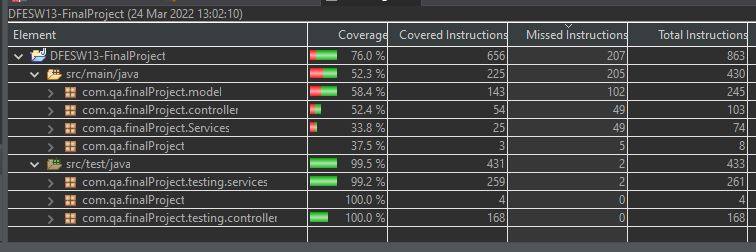
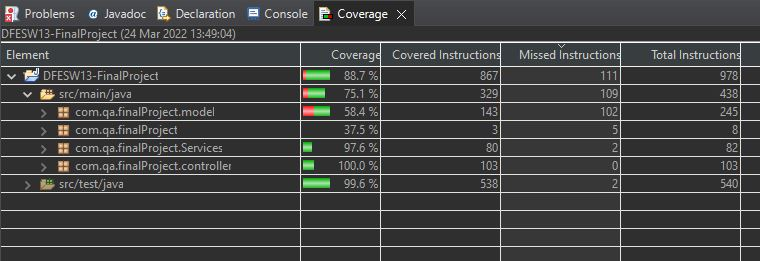
JB: Added equals verifier to increase coverage

diff --git a/src/test/java/com/qa/finalProject/testing/services/ServiceTest.java b/src/test/java/com/qa/finalProject/testing/services/ServiceTest.java
@@ -1,26 +1,18 @@
 package com.qa.finalProject.testing.services;
 
 import static org.assertj.core.api.Assertions.assertThat;
-import static org.mockito.Mockito.verify;
-import static org.mockito.Mockito.when;
-import static org.springframework.test.web.servlet.request.MockMvcRequestBuilders.post;
-
 import java.util.ArrayList;
 import java.util.List;
 import java.util.Optional;
 
 import org.junit.jupiter.api.Assertions;
-import org.junit.jupiter.api.BeforeAll;
 import org.junit.jupiter.api.BeforeEach;
 import org.junit.jupiter.api.Test;
 import org.mockito.Mockito;
 import org.springframework.beans.factory.annotation.Autowired;
 import org.springframework.boot.test.context.SpringBootTest;
 import org.springframework.boot.test.mock.mockito.MockBean;
-import org.springframework.http.MediaType;
 import org.springframework.test.context.ActiveProfiles;
-import org.springframework.test.web.servlet.RequestBuilder;
-
 import com.qa.finalProject.Services.ServiceDB;
 import com.qa.finalProject.model.CarParking;
 import com.qa.finalProject.repo.Repo;

diff --git a/src/main/java/com/qa/finalProject/model/CarParking.java b/src/main/java/com/qa/finalProject/model/CarParking.java
@@ -119,7 +119,7 @@ public class CarParking {
 
 	@Override
 	public int hashCode() {
-		return Objects.hash(colour, id, make, model, number_plate, paid, price);
+		return Objects.hash(colour, make, model, number_plate, paid, price);
 	}
 
 	@Override
@@ -131,7 +131,7 @@ public class CarParking {
 		if (getClass() != obj.getClass())
 			return false;
 		CarParking other = (CarParking) obj;
-		return Objects.equals(colour, other.colour) && id == other.id && Objects.equals(make, other.make)
+		return Objects.equals(colour, other.colour) && Objects.equals(make, other.make)
 				&& Objects.equals(model, other.model) && Objects.equals(number_plate, other.number_plate)
 				&& paid == other.paid && Float.floatToIntBits(price) == Float.floatToIntBits(other.price);
 	}
@@ -150,7 +150,8 @@ public class CarParking {
 	
 	
 	
-	
+
+
 	
 
 }

diff --git a/src/test/java/com/qa/finalProject/testing/controller/ControllerTest.java b/src/test/java/com/qa/finalProject/testing/controller/ControllerTest.java
@@ -27,6 +27,9 @@ import org.springframework.test.web.servlet.ResultMatcher;
 import com.fasterxml.jackson.databind.ObjectMapper;
 import com.qa.finalProject.model.CarParking;
 
+import nl.jqno.equalsverifier.EqualsVerifier;
+import nl.jqno.equalsverifier.Warning;
+
 @SpringBootTest(webEnvironment = WebEnvironment.RANDOM_PORT)
 @AutoConfigureMockMvc
 @ActiveProfiles("dev")
@@ -125,6 +128,13 @@ public class ControllerTest {
 		
 		
 	}
-		
+	
+	@Test
+	public void equalsContract() {
+	    EqualsVerifier.forClass(CarParking.class).usingGetClass().verify();
+	}
+
+
+	
 		
 }

diff --git a/src/main/java/com/qa/finalProject/Services/ServiceDB.java b/src/main/java/com/qa/finalProject/Services/ServiceDB.java
@@ -19,12 +19,6 @@ public class ServiceDB {
 		repo.save(session);
 		return true;
 	}
-	// Create Preset Entries
-		/*public boolean createSetBooking(CarParking sessions) {
-			repo.save(sessions);
-			return true;
-		 // Preset data is being added via data.sql and the last line in application.properties 
-		  }*/
 		
 	// Find Entry by ID
 	public CarParking findById(long id) {
